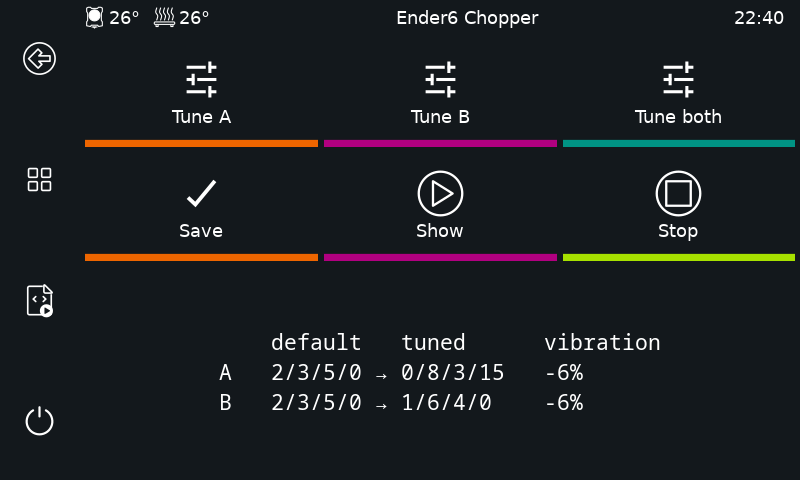
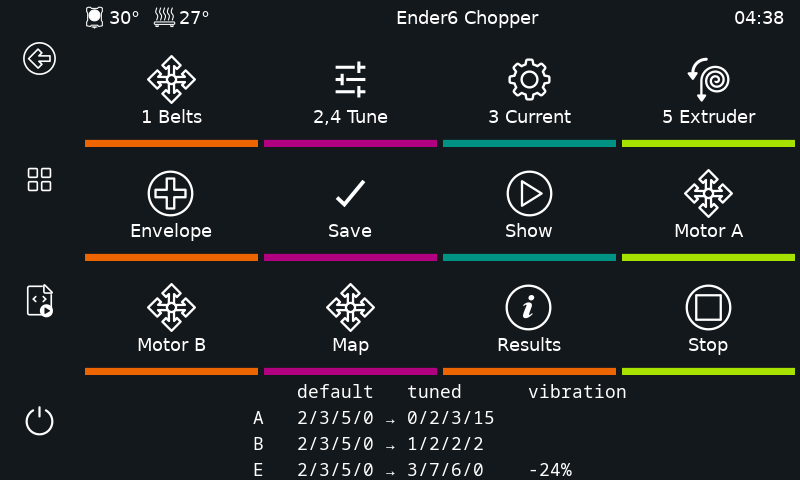
Version 0.3.0 + a fresh panel screenshot
The plan-numbered panel (2,4 Tune) with real tuned registers in the idle
table, captured from the reference rig's display.

diff --git a/chopper_autotune/__init__.py b/chopper_autotune/__init__.py
@@ -1,1 +1,1 @@
-__version__ = '0.2.0'
+__version__ = '0.3.0'